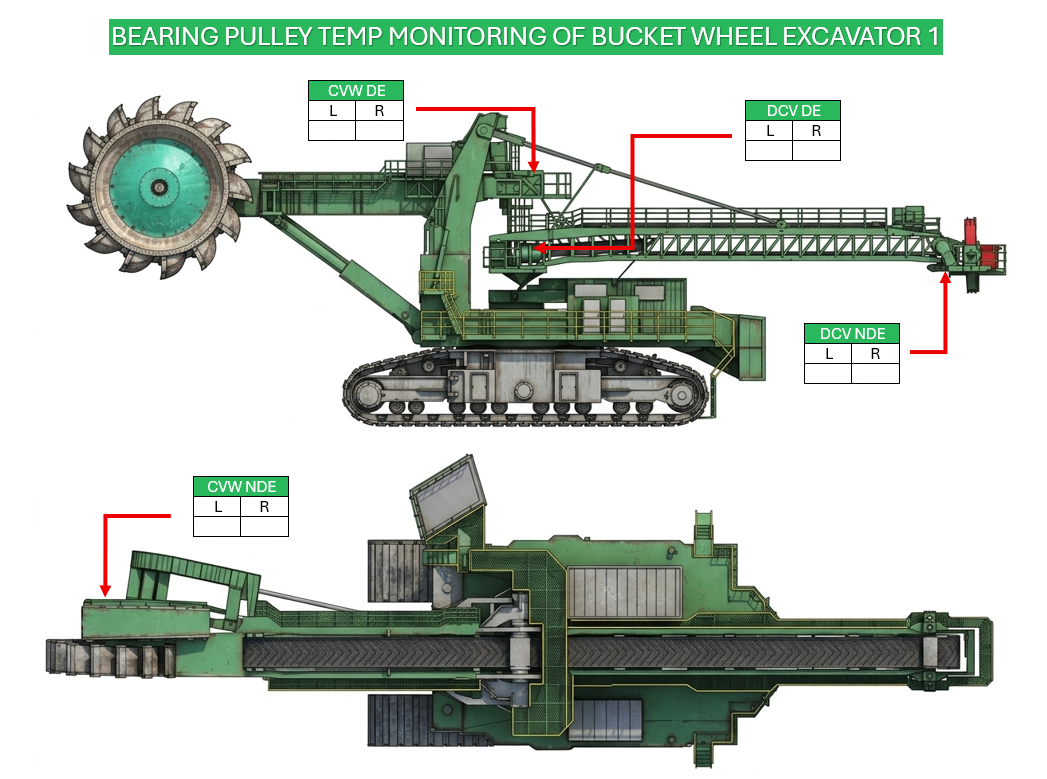
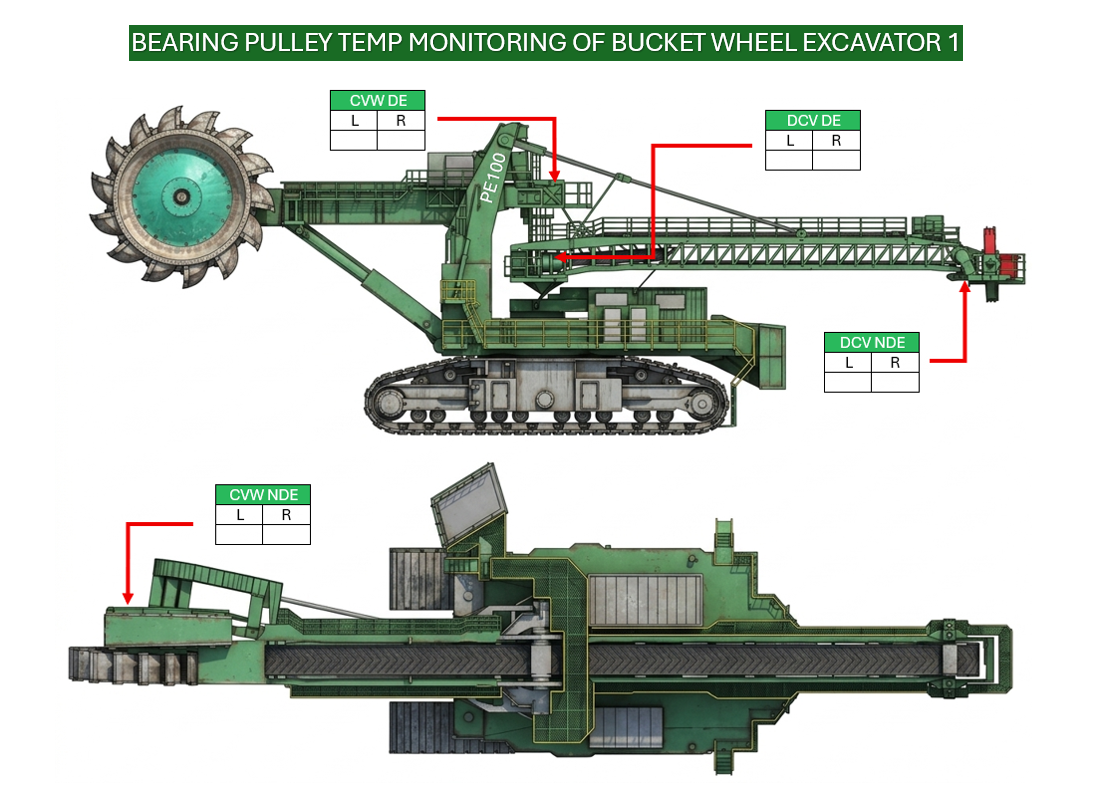
Use user's PE100-baked BWE images; fix BWE2 title "1"->"2"
Replaced BWE1.PNG/BWE2.PNG with the user's edited versions that bake the
white "PE100" model label onto the machine mast, and removed the HTML PE100
overlay from both pages (no longer needed). Corrected the BWE2 diagram's
title from "EXCAVATOR 1" to "EXCAVATOR 2" (Arial Bold, matching the bar).

Changed region(s): [[0.0611, 0.0, 0.978, 0.5546], [0.0306, 0.5854, 0.9475, 0.9859]]

diff --git a/BWE1.html b/BWE1.html
@@ -65,7 +65,6 @@
 
   <div class="stage">
     <img src="BWE1.PNG" alt="Bucket Wheel Excavator 1 bearing temperature monitoring">
-    <span class="model" style="left:44%;top:27%;transform:translate(-50%,-50%) rotate(-57deg)">PE100</span>
     <!-- Value overlays pending: tags not yet mapped. Boxes left blank on purpose.
          When ready, measure cell centers (PIL script) and add <span class="tv" id="TAG"> like SPD/Tripper.
          Boxes on this diagram: CVW DE, DCV DE, DCV NDE, CVW NDE (each L/R). -->

diff --git a/BWE2.html b/BWE2.html
@@ -65,7 +65,6 @@
 
   <div class="stage">
     <img src="BWE2.PNG" alt="Bucket Wheel Excavator 2 bearing temperature monitoring">
-    <span class="model" style="left:44%;top:27%;transform:translate(-50%,-50%) rotate(-57deg)">PE100</span>
     <!-- Value overlays pending: tags not yet mapped. Boxes left blank on purpose.
          When ready, measure cell centers (PIL script) and add <span class="tv" id="TAG"> like SPD/Tripper.
          Boxes on this diagram: CVW DE, DCV DE, DCV NDE, CVW NDE (each L/R). -->
